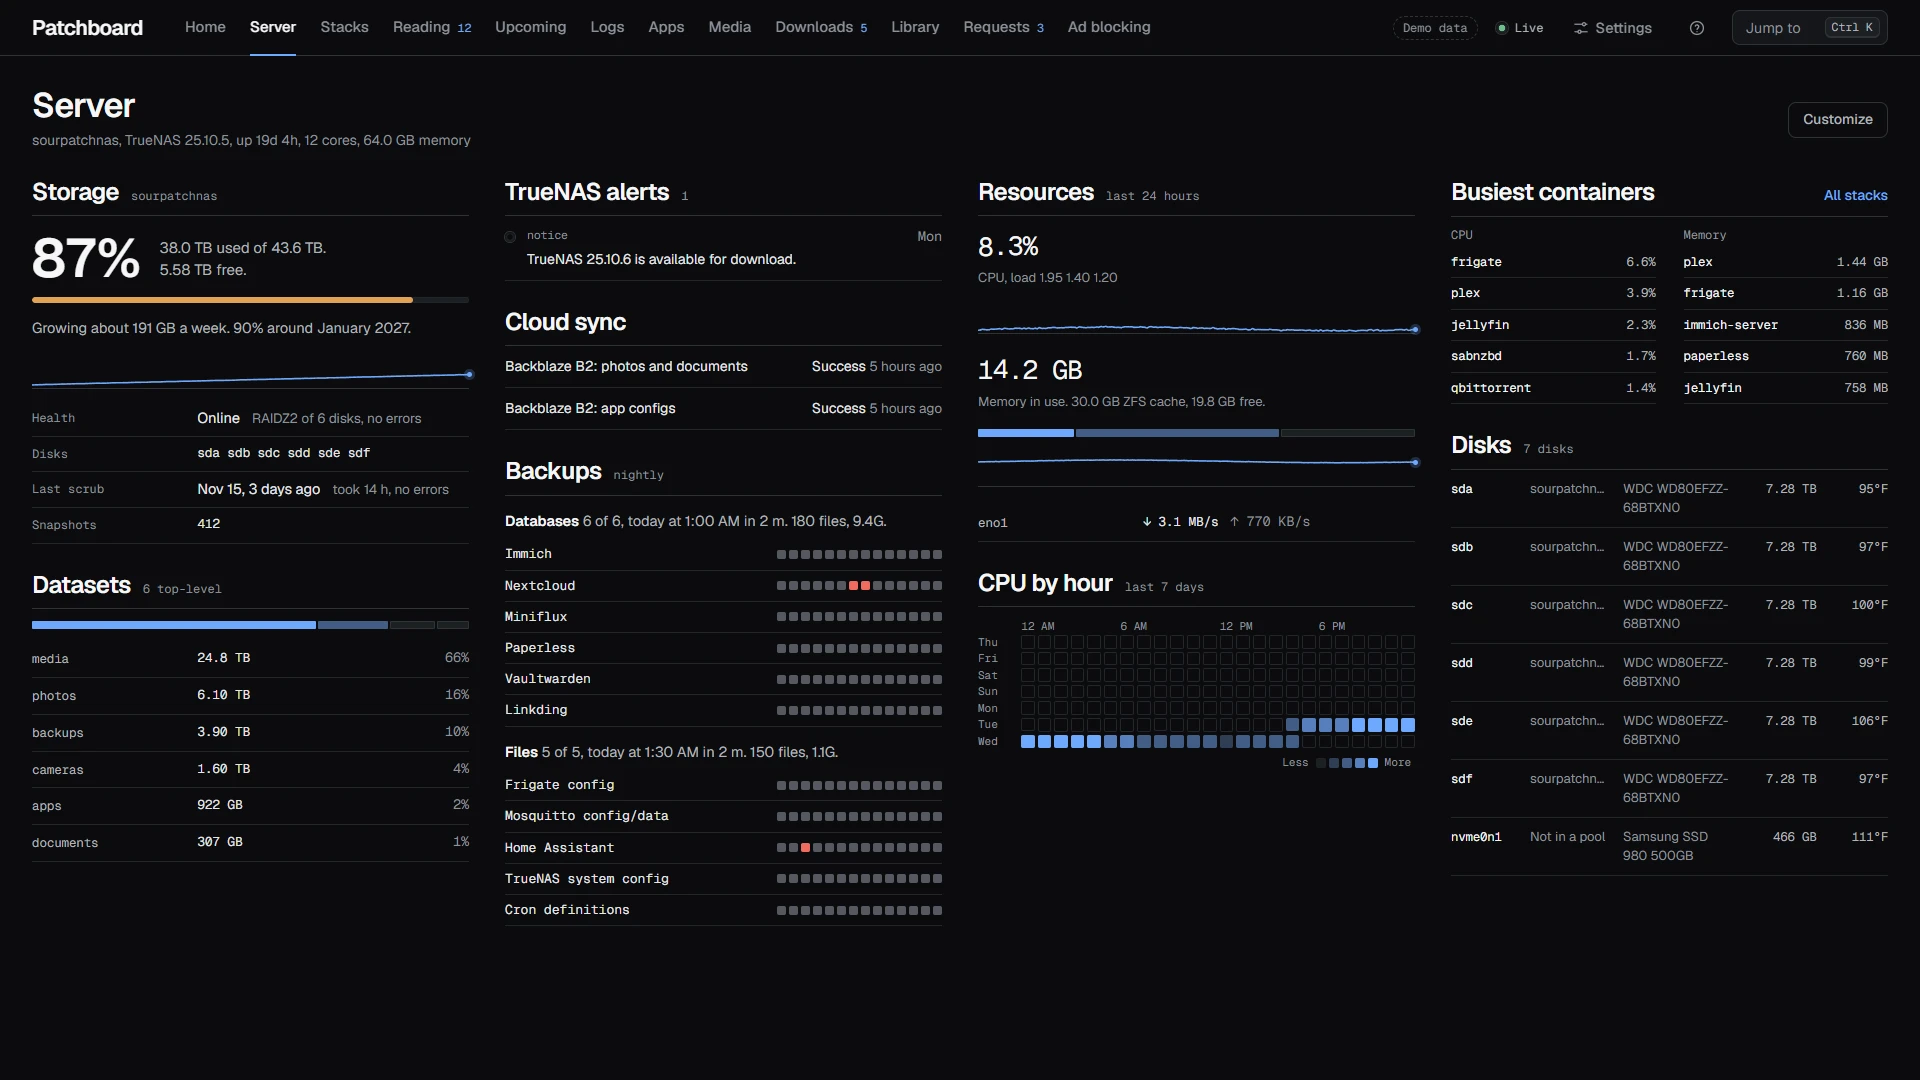
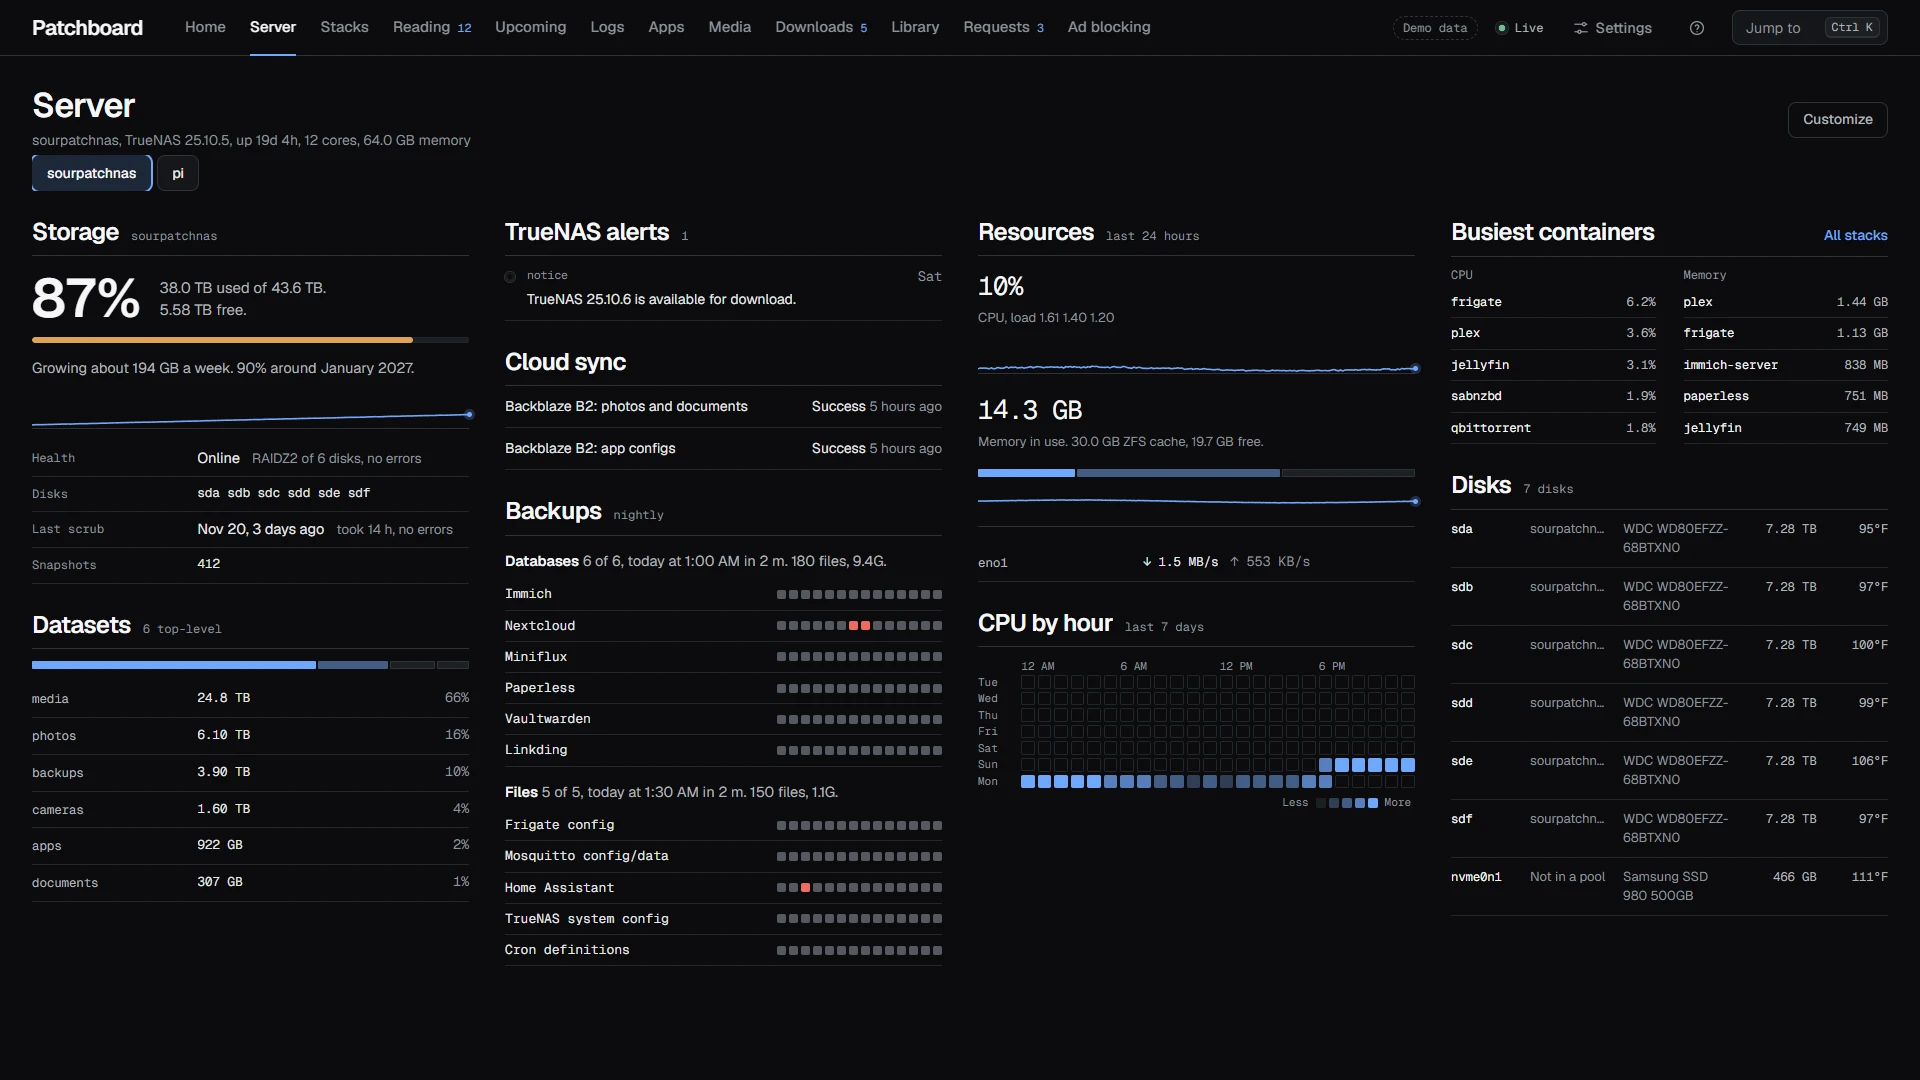
Contrast in every theme, and what a screen reader says
- Light themes' ok, warn and crit, and the Teal and Blue accent presets,
  go a shade darker to hold 4.5:1 on every neutral surface;
  themes.test.ts checks every pair.
- scripts/check-contrast.mjs (npm run test:contrast, and in CI) measures
  every text on 17 pages in all ten theme looks, e-ink and color e-ink,
  and fails on any color in plain e-ink. On e-ink, a count in a selected
  tab is no longer gray on black.
- Times read in full to a screen reader through an Ago component; app
  groups and Ad blocking's Pause buttons are named groups; the Logs and
  settings-import fields have labels; the Monitor has a heading.
- Server screenshot shows the host tabs.

diff --git a/web/views/Home.tsx b/web/views/Home.tsx
@@ -26,10 +26,9 @@ import type {
 } from '../../shared/types.ts';
 import { Board, cachedWidgetTypes, Vitals } from '../board/Board.tsx';
 import { getAppearance, useAppearance } from '../lib/appearance.ts';
-import { Empty, Episode, Ident, Led, Meter, Poster, Section, WithSubject } from '../components/ui.tsx';
+import { Ago, Empty, Episode, Ident, Led, Meter, Poster, Section, WithSubject } from '../components/ui.tsx';
 import {
   count,
-  ago,
   agoLong,
   breakable,
   clock,
@@ -459,13 +458,13 @@ export function Inbox({ now }: { now: number }) {
                 <a href={webmail} target="_blank" rel="noreferrer" title={m.preview}>
                   <span className="mail-from">{m.from}</span>
                   <span className="mail-subject">{m.subject}</span>
-                  <time className="mail-time">{ago(m.receivedAt, now)}</time>
+                  <Ago at={m.receivedAt} now={now} className="mail-time" />
                 </a>
               ) : (
                 <div title={m.preview}>
                   <span className="mail-from">{m.from}</span>
                   <span className="mail-subject">{m.subject}</span>
-                  <time className="mail-time">{ago(m.receivedAt, now)}</time>
+                  <Ago at={m.receivedAt} now={now} className="mail-time" />
                 </div>
               )}
             </li>
@@ -503,7 +502,7 @@ export function FeedsBrief({ now }: { now: number }) {
                 <span className="feed-title">{e.title}</span>
                 <span className="feed-meta">
                   <span title={e.feed}>{e.feed}</span>
-                  <time>{ago(e.publishedAt, now)}</time>
+                  <Ago at={e.publishedAt} now={now} />
                 </span>
               </Link>
             </li>
@@ -856,7 +855,7 @@ export function Changes({ changes, now }: { changes: ChangeEvent[]; now: number 
               <span className="change-text">
                 <Ident>{c.subject}</Ident> {c.kind === 'container.action' ? (actionText[c.detail ?? ''] ?? changeText[c.kind]) : c.kind === 'container.restarted' && c.detail === 'updated' ? 'updated' : changeText[c.kind]}
               </span>
-              <time>{ago(c.at, now)}</time>
+              <Ago at={c.at} now={now} />
             </Link>
           </li>
         ))}
@@ -945,7 +944,7 @@ function PosterShelf({ items, now, showServer, fit }: { items: MergedItem[]; now
               <span className="poster-title">{r.title}</span>
               <span className="poster-sub">
                 {r.subtitle && <Episode text={r.subtitle} />}
-                {now !== undefined && <time>{ago(r.addedAt, now)}</time>}
+                {now !== undefined && <Ago at={r.addedAt} now={now} />}
                 {showServer && <span className="poster-src">{(r.servers ?? [r.server]).map((s) => s.label).join(' + ')}</span>}
               </span>
             </>

diff --git a/web/lib/themes.ts b/web/lib/themes.ts
@@ -63,7 +63,7 @@ export const THEMES: ThemeDef[] = [
     light: {
       bg: '#f7f7f8', raised: '#efeff1', surface: '#e6e7ea', line: '#d3d5da', lineSoft: '#e4e5e9',
       ink: '#1f2328', ink2: '#454a52', ink3: '#626771', head: '#0b0c0e',
-      accent: '#2563c9', ok: '#1d7a45', warn: '#9a5b00', crit: '#c0362c', termBg: '#fbfbfc',
+      accent: '#2563c9', ok: '#1c7643', warn: '#965900', crit: '#bd352b', termBg: '#fbfbfc',
     },
   },
   {
@@ -79,7 +79,7 @@ export const THEMES: ThemeDef[] = [
     light: {
       bg: '#f4f6fb', raised: '#eceff7', surface: '#e1e6f1', line: '#cdd5e6', lineSoft: '#e1e6f1',
       ink: '#1a2233', ink2: '#3f4a62', ink3: '#5b6782', head: '#0b1220',
-      accent: '#3355cc', ok: '#1f7a55', warn: '#93600c', crit: '#bf3546', termBg: '#fafbfe',
+      accent: '#3355cc', ok: '#1d7451', warn: '#8d5c0c', crit: '#bb3445', termBg: '#fafbfe',
     },
   },
   {
@@ -95,7 +95,7 @@ export const THEMES: ThemeDef[] = [
     light: {
       bg: '#f4f7f3', raised: '#ecf1eb', surface: '#e1e9e0', line: '#cdd9cc', lineSoft: '#e0e8df',
       ink: '#1b241d', ink2: '#3f4c42', ink3: '#5a6a5e', head: '#0d140f',
-      accent: '#2a6b66', ok: '#4f7a12', warn: '#93600c', crit: '#b23a2a', termBg: '#fafcf9',
+      accent: '#2a6b66', ok: '#4a7211', warn: '#8e5d0c', crit: '#b23a2a', termBg: '#fafcf9',
     },
   },
   {
@@ -111,7 +111,7 @@ export const THEMES: ThemeDef[] = [
     light: {
       bg: '#f7f5fb', raised: '#f0edf6', surface: '#e7e2f1', line: '#d5cde6', lineSoft: '#e7e2f1',
       ink: '#221b2e', ink2: '#4a4058', ink3: '#685d7a', head: '#120c1c',
-      accent: '#6a4fd1', ok: '#2d7a5a', warn: '#94600c', crit: '#b8344a', termBg: '#fcfbfe',
+      accent: '#6a4fd1', ok: '#2a7254', warn: '#8d5b0b', crit: '#b8344a', termBg: '#fcfbfe',
     },
   },
   {
@@ -127,7 +127,7 @@ export const THEMES: ThemeDef[] = [
     light: {
       bg: '#fbf9f4', raised: '#f4f1ea', surface: '#ebe7dd', line: '#dad3c5', lineSoft: '#ebe6dc',
       ink: '#22201c', ink2: '#4c4840', ink3: '#69645a', head: '#12110e',
-      accent: '#2f5f7a', ok: '#3d7a55', warn: '#a35c00', crit: '#b0402f', termBg: '#fdfcf9',
+      accent: '#2f5f7a', ok: '#39724f', warn: '#9a5700', crit: '#b0402f', termBg: '#fdfcf9',
     },
   },
 ];
@@ -227,9 +227,9 @@ export function tokensFrom(c: CustomColors): Tokens {
     ink3: mix(c.ink, c.bg, 0.4),
     head: mix(c.ink, dark ? '#ffffff' : '#000000', 0.5),
     accent: c.accent,
-    ok: dark ? '#6fbf8a' : '#1d7a45',
-    warn: dark ? '#e3a253' : '#9a5b00',
-    crit: dark ? '#ef6b5e' : '#c0362c',
+    ok: dark ? '#6fbf8a' : '#1c7643',
+    warn: dark ? '#e3a253' : '#965900',
+    crit: dark ? '#ef6b5e' : '#bd352b',
     termBg: mix(c.bg, dark ? '#000000' : '#ffffff', 0.3),
   };
 }

diff --git a/web/views/Feeds.tsx b/web/views/Feeds.tsx
@@ -11,8 +11,8 @@ import { useCallback, useEffect, useMemo, useRef, useState } from 'react';
 import { Link, useSearchParams } from 'react-router-dom';
 import type { FeedEntry, FeedsResponse } from '../../shared/types.ts';
 import { CustomizePage } from '../components/PageCustomize.tsx';
-import { Empty } from '../components/ui.tsx';
-import { ago, count } from '../lib/format.ts';
+import { Ago, Empty } from '../components/ui.tsx';
+import { count } from '../lib/format.ts';
 import { useNow, useStore } from '../lib/store.tsx';
 import { useUrlChoice } from '../lib/url.ts';
 import { locale } from '../lib/region.ts';
@@ -383,7 +383,7 @@ export function Feeds() {
                 <span className="entry-title">{e.title}</span>
                 <span className="feed-meta">
                   <span>{e.feed}</span>
-                  <time>{ago(e.publishedAt, now)}</time>
+                  <Ago at={e.publishedAt} now={now} />
                   {e.readingTime > 0 && <span>{e.readingTime} min</span>}
                 </span>
                 <Thumb src={e.image} className="entry-thumb" />
@@ -495,7 +495,7 @@ function Edition(props: {
         <span className="edition-lead-text">
           <span className="feed-card-meta">
             <span>{lead.feed}</span>
-            <time>{ago(lead.publishedAt, now)}</time>
+            <Ago at={lead.publishedAt} now={now} />
           </span>
           <span className="edition-lead-title">{lead.title}</span>
           <span className="feed-card-text">{excerpt(lead.content, 280)}</span>
@@ -521,7 +521,7 @@ function Edition(props: {
                   <Thumb src={e.image} className="feed-card-img" />
                   <span className="feed-card-meta">
                     <span>{e.feed}</span>
-                    <time>{ago(e.publishedAt, now)}</time>
+                    <Ago at={e.publishedAt} now={now} />
                   </span>
                   <span className="feed-card-title">{e.title}</span>
                   <span className="feed-card-text">{excerpt(e.content, 140)}</span>
@@ -541,7 +541,7 @@ function Edition(props: {
                   <span className="entry-title">{e.title}</span>
                   <span className="feed-meta">
                     <span>{e.feed}</span>
-                    <time>{ago(e.publishedAt, now)}</time>
+                    <Ago at={e.publishedAt} now={now} />
                     {e.readingTime > 0 && <span>{e.readingTime} min</span>}
                   </span>
                 </button>

diff --git a/web/components/PatchRow.tsx b/web/components/PatchRow.tsx
@@ -2,6 +2,7 @@
 // with a scribble-strip label under each jack. The LED shows container state;
 // clicking a jack opens the service.
 
+import { useId } from 'react';
 import { Link } from 'react-router-dom';
 import { numberText, useAppNumbers } from '../lib/appstats.ts';
 import { useStore } from '../lib/store.tsx';
@@ -14,6 +15,7 @@ import { alertLevelFor } from '../lib/attention.ts';
 export function PatchRow({ names = false, groups }: { names?: boolean; groups?: string[] }) {
   const { snap } = useStore();
   const nums = useAppNumbers();
+  const id = useId();
   if (!snap) return <div className="patchrow patchrow-loading" aria-hidden />;
   const containers = containerMap(snap);
   const shown = snap.catalog.groups.filter((g) => g.services.length && (!groups || groups.includes(g.name)));
@@ -22,9 +24,10 @@ export function PatchRow({ names = false, groups }: { names?: boolean; groups?: 
 
   return (
     <nav className={`patchrow ${names ? '' : 'icons-only'}`} aria-label="Services">
-      {shown.map((g) => (
-        <div className="bay" key={g.name}>
-          <span className="bay-name">{g.name}</span>
+      {shown.map((g, i) => (
+        // A group named by its bay label, so a screen reader says "Acquire" on the way in.
+        <div className="bay" key={g.name} role="group" aria-labelledby={`${id}-bay-${i}`}>
+          <span className="bay-name" id={`${id}-bay-${i}`}>{g.name}</span>
           <Roving className="bay-jacks">
             {g.services.map((s) => {
               const ck = checkFor(snap, s.name);

diff --git a/web/views/Server.tsx b/web/views/Server.tsx
@@ -11,9 +11,9 @@ import { useLanding } from '../lib/landing.ts';
 import type { BackupRun, BackupsData, DockerData, GlancesData, GlancesHost, NasSystem, Pool, Series, StatsData, SystemData, TruenasData } from '../../shared/types.ts';
 import { Spark, Split } from '../components/Spark.tsx';
 import { HourHeatmap } from '../components/Squares.tsx';
-import { Empty, Led, Meter, Section } from '../components/ui.tsx';
+import { Ago, Empty, Led, Meter, Section } from '../components/ui.tsx';
 import { useHistory } from '../lib/api.ts';
-import { ago, agoLong, duration, pct, plural, shortDate, size, speed, temp, uptime } from '../lib/format.ts';
+import { agoLong, duration, pct, plural, shortDate, size, speed, temp, uptime } from '../lib/format.ts';
 import { storageLevel, useLimits, useNow, useSource, useStore } from '../lib/store.tsx';
 import { useAppearance } from '../lib/appearance.ts';
 import { locale } from '../lib/region.ts';
@@ -751,7 +751,7 @@ function NasAlerts({ nas, now }: { nas: TruenasData; now: number }) {
               <Led state={LEVEL_TONE[a.level] === 'crit' ? 'crit' : LEVEL_TONE[a.level] === 'warn' ? 'warn' : 'idle'} />
               <span className="nas-level mono">{a.level.toLowerCase()}</span>
               <span className="nas-text">{a.text}</span>
-              {a.at && <time>{ago(a.at, now)}</time>}
+              {a.at && <Ago at={a.at} now={now} />}
             </li>
           ))}
         </ul>

diff --git a/server/test/themes.test.ts b/server/test/themes.test.ts
@@ -1,6 +1,7 @@
 import { strict as assert } from 'node:assert';
 import { test } from 'node:test';
 import { contrast, THEMES } from '../../web/lib/themes.ts';
+import { ACCENTS } from '../../web/lib/appearance.ts';
 
 test('theme text remains readable on every neutral surface in both modes', () => {
   for (const theme of THEMES) {
@@ -9,6 +10,25 @@ test('theme text remains readable on every neutral surface in both modes', () =>
         for (const text of ['ink', 'ink2', 'ink3'] as const) {
           assert(contrast(theme[mode][text], theme[mode][surface]) >= 4.5,
             `${theme.name} ${mode}: ${text} on ${surface} must meet WCAG AA`);
+        }
+      }
+    }
+  }
+});
+
+test('links, warnings and accent presets stay readable on every neutral surface', () => {
+  for (const theme of THEMES) {
+    for (const mode of ['dark', 'light'] as const) {
+      const colors: [string, string][] = [
+        ['accent', theme[mode].accent],
+        ['ok', theme[mode].ok],
+        ['warn', theme[mode].warn],
+        ['crit', theme[mode].crit],
+        ...ACCENTS.map((a): [string, string] => [`${a.name} accent`, a[mode]]),
+      ];
+      for (const surface of ['bg', 'raised', 'surface'] as const) {
+        for (const [name, color] of colors) {
+          assert(contrast(color, theme[mode][surface]) >= 4.5, `${theme.name} ${mode}: ${name} on ${surface} must meet WCAG AA`);
         }
       }
     }

diff --git a/web/styles.css b/web/styles.css
@@ -94,9 +94,9 @@
   --ink-3: #626771;
   --head: #0b0c0e;
   --accent: #2563c9;
-  --ok: #1d7a45;
-  --warn: #9a5b00;
-  --crit: #c0362c;
+  --ok: #1c7643;
+  --warn: #965900;
+  --crit: #bd352b;
   --term-bg: #fbfbfc;
 
   --sq-up: color-mix(in srgb, var(--ink-3) 50%, var(--surface));
@@ -8852,6 +8852,11 @@ html[data-eink] .car-tire.is-soft .car-tire-num {
   scrollbar-color: color-mix(in srgb, var(--ink-3) 55%, transparent) transparent;
 }
 
+/* A short time's spoken form stays inside its own row, even one that scrolls sideways. */
+.ago {
+  position: relative;
+}
+
 .sr-only {
   position: absolute;
   width: 1px;
@@ -13728,6 +13733,11 @@ html[data-eink] :is(.seg button[aria-pressed='true'], .seg button[aria-selected=
   color: #fff;
 }
 
+/* A count in a selected tab is white on that black too, not quiet gray. */
+html[data-eink] :is(.seg button[aria-pressed='true'], .seg button[aria-selected='true'], .chip[aria-pressed='true'], .chip[aria-selected='true']) .dlp-count {
+  color: inherit;
+}
+
 /* The Monitor on e-ink: paper, ink, and the waffles in solid black. */
 .monitor.tint-eink {
   --bg: #fff;
@@ -15097,6 +15107,11 @@ html[data-eink][data-eink-color] .led[data-state='ok'] {
     width: 100%;
     margin-left: 0;
   }
+}
+
+/* Blocking's Pause buttons: a group for screen readers, no box of its own. */
+.dlp-pause {
+  display: contents;
 }
 
 .dlp-count {

diff --git a/web/components/ui.tsx b/web/components/ui.tsx
@@ -4,7 +4,7 @@ import { type ReactNode, useState } from 'react';
 import { Link } from 'react-router-dom';
 import type { SourceState } from '../../shared/types.ts';
 import { INTEGRATIONS } from '../../shared/integrations.ts';
-import { ago } from '../lib/format.ts';
+import { ago, agoLong } from '../lib/format.ts';
 import { useStore } from '../lib/store.tsx';
 import { iconUrl } from '../lib/services.ts';
 import { t } from '../lib/i18n.ts';
@@ -189,5 +189,16 @@ export function Meter({ value, level, label }: { value: number; level?: 'ok' | '
     <span className={`meter meter-${level ?? 'ok'}`} role="meter" aria-label={label} aria-valuenow={Math.round(value)} aria-valuemin={0} aria-valuemax={100}>
       <span style={{ width: `${Math.max(0, Math.min(100, value))}%` }} />
     </span>
+  );
+}
+
+/** A past time, short on screen ("40m") and in full for a screen reader ("40 minutes ago"). */
+export function Ago({ at, now, className }: { at: number | string; now?: number; className?: string }) {
+  const ms = typeof at === 'number' ? at : Date.parse(at);
+  return (
+    <time className={className ? `ago ${className}` : 'ago'} dateTime={Number.isFinite(ms) ? new Date(ms).toISOString() : undefined}>
+      <span aria-hidden>{ago(at, now)}</span>
+      <span className="sr-only">{agoLong(at, now)}</span>
+    </time>
   );
 }

diff --git a/web/views/Container.tsx b/web/views/Container.tsx
@@ -32,7 +32,7 @@ import { copyText } from '../lib/copy.ts';
 import { type Action, ContainerActions, IgnoreButton, VERB } from '../components/Actions.tsx';
 import { UpdateButton, UpdateNotice, UpdatePanel, UpdateUndo, useUpdateJob } from '../components/Updater.tsx';
 import { Spark } from '../components/Spark.tsx';
-import { Empty, Icon, Ident, Section } from '../components/ui.tsx';
+import { Ago, Empty, Icon, Ident, Section } from '../components/ui.tsx';
 import { useHistory, useJson } from '../lib/api.ts';
 import { ago, agoLong, pct, plural, shortDate, size, speed } from '../lib/format.ts';
 import { lineClass, logTime, useLogStream } from '../lib/logs.ts';
@@ -567,7 +567,7 @@ function History({ name, now }: { name: string; now: number }) {
         <li key={c.id} className={`change change-${c.kind.split('.')[1]} ${c.kind === 'container.stopped' && over ? 'is-over' : ''}`}>
           <div>
             <span className="change-text">{c.kind === 'container.action' ? (actionWord[c.detail ?? ''] ?? changeText[c.kind]) : c.kind === 'container.restarted' && c.detail === 'updated' ? 'Updated' : changeText[c.kind]}</span>
-            <time>{ago(c.at, now)}</time>
+            <Ago at={c.at} now={now} />
           </div>
         </li>
       ))}

diff --git a/web/views/Media.tsx b/web/views/Media.tsx
@@ -6,8 +6,8 @@ import { useEffect, useState } from 'react';
 import { Link } from 'react-router-dom';
 import type { LibraryDetail, MediaLibraries, MediaLibrary, Stream } from '../../shared/types.ts';
 import { HoldButton } from '../components/Hold.tsx';
-import { Empty, Episode, Meter, Poster, PosterRow as Row } from '../components/ui.tsx';
-import { ago, agoLong, eta } from '../lib/format.ts';
+import { Ago, Empty, Episode, Meter, Poster, PosterRow as Row } from '../components/ui.tsx';
+import { agoLong, eta } from '../lib/format.ts';
 import { msg, tn, t as tr } from '../lib/i18n.ts';
 import { ACTION, call, useList } from '../lib/live-list.ts';
 import { itemHref, type MediaServer, streamProps, useMediaServers } from '../lib/media.ts';
@@ -180,7 +180,7 @@ function LibraryPanel({ library: l }: { library: MediaLibrary }) {
                 <span className="poster-title">{r.title}</span>
                 <span className="poster-sub">
                   {r.episodes ? tn(r.episodes, '{n} new episode', '{n} new episodes') : r.subtitle && <Episode text={r.subtitle} />}
-                  <time>{ago(r.addedAt)}</time>
+                  <Ago at={r.addedAt} />
                 </span>
               </>
             );

diff --git a/web/views/Blocking.tsx b/web/views/Blocking.tsx
@@ -165,14 +165,15 @@ function Status({ id, data, ro }: { id: Id; data: DnsData | null; ro: boolean })
       {!ro && (
         <span className="dlp-client-actions">
           {data.protecting ? (
-            <>
-              <span className="lib-total">{tr('Pause')}</span>
+            // A group, so a screen reader says "Pause" before "5 min".
+            <span className="dlp-pause" role="group" aria-label={tr('Pause')}>
+              <span className="lib-total" aria-hidden>{tr('Pause')}</span>
               {[5, 30, 60].map((m) => (
                 <button key={m} type="button" className="text-button" disabled={busy} onClick={() => void act(`pause-${m}`)}>
                   {m < 60 ? tr('{n} min', { n: m }) : tr('1 h')}
                 </button>
               ))}
-            </>
+            </span>
           ) : (
             <button type="button" className="text-button" disabled={busy} onClick={() => void act('resume')}>
               {tr('Turn back on')}

diff --git a/web/views/Logs.tsx b/web/views/Logs.tsx
@@ -102,6 +102,7 @@ export function Logs() {
           className="field"
           type="search"
           placeholder="Filter containers"
+          aria-label="Filter containers"
           value={listFilter}
           onChange={(e) => setListFilter(e.target.value)}
         />
@@ -153,7 +154,7 @@ export function Logs() {
                 </span>
               </div>
               <div className="logs-tools">
-                <input className="field" type="search" placeholder="Filter lines" value={filter} onChange={(e) => setFilter(e.target.value)} />
+                <input className="field" type="search" placeholder="Filter lines" aria-label="Filter lines" value={filter} onChange={(e) => setFilter(e.target.value)} />
                 <label className="toggle">
                   <input type="checkbox" checked={follow} onChange={(e) => setFollow(e.target.checked)} /> Follow
                 </label>
